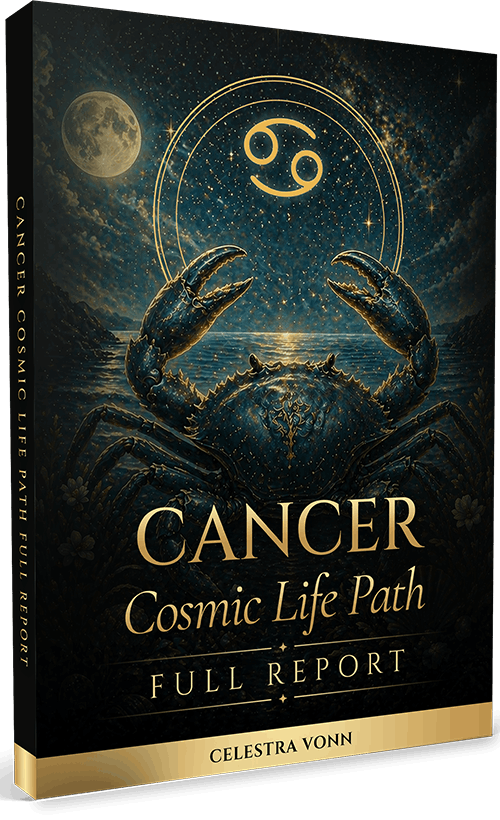
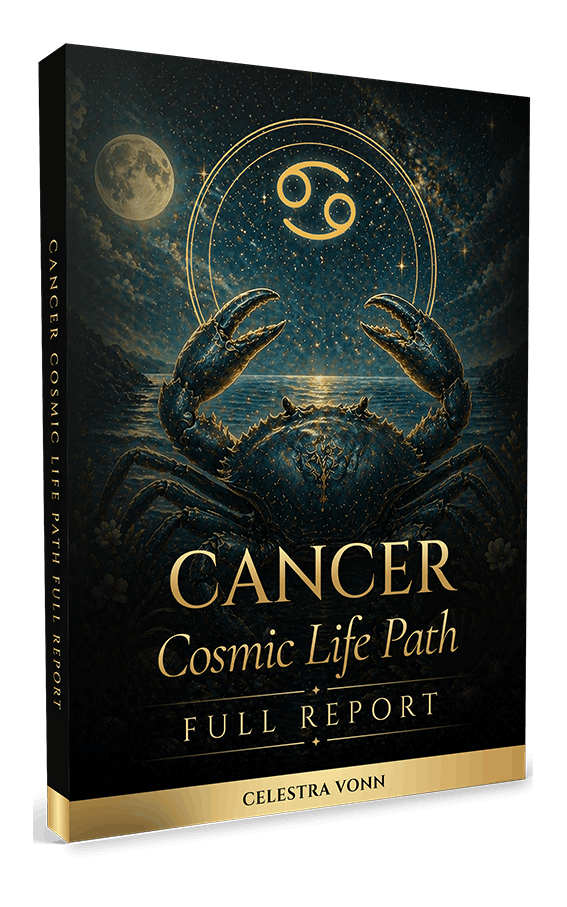
Adjust the page design

diff --git a/public/css/custom.css b/public/css/custom.css
@@ -1723,7 +1723,7 @@ textarea:-webkit-autofill:focus {
     margin-bottom: 2.5em;
 }
 .download-main-img-large {
-    width: 180px;
+    width: 210px;
     height: auto;
     filter:
     drop-shadow(0 0 4px  rgba(212, 168, 67, 1))
@@ -1971,7 +1971,7 @@ textarea:-webkit-autofill:focus {
     margin-bottom: 0.7em;
 }
 .special-thumb {
-    width: 80%;
+    width: 90%;
     height: auto;
     object-fit: contain;
     border-radius: 10px;
